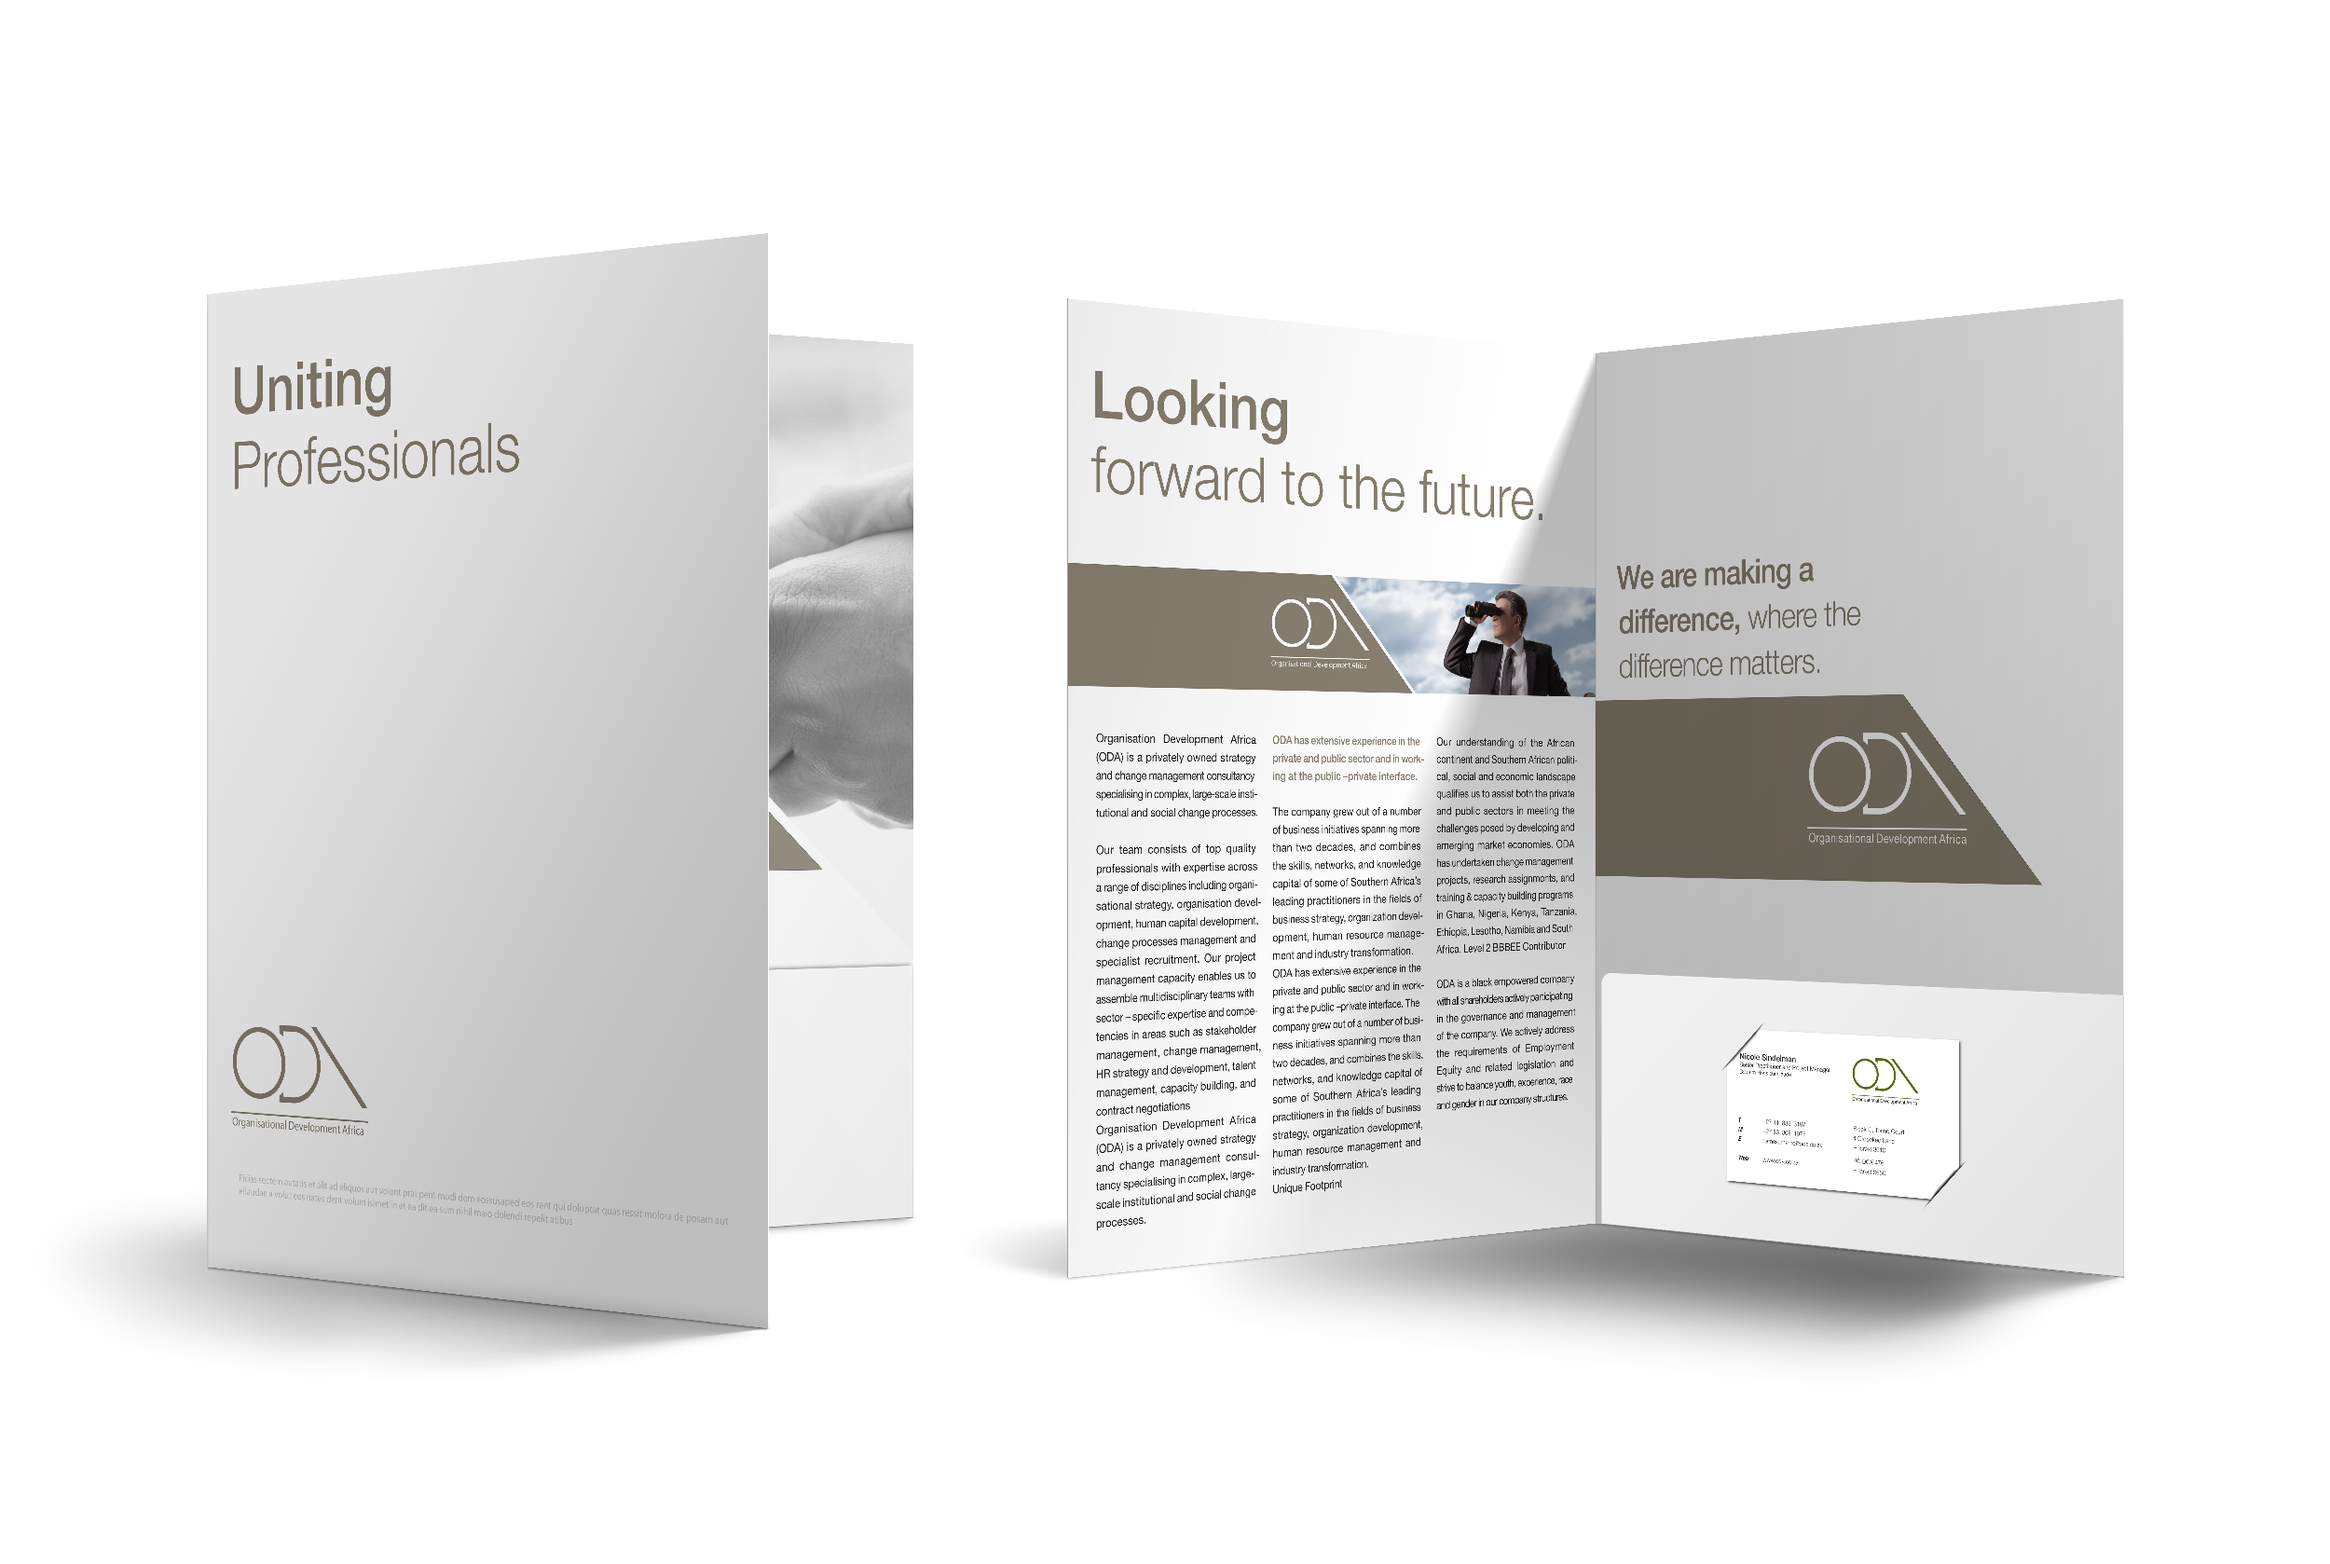
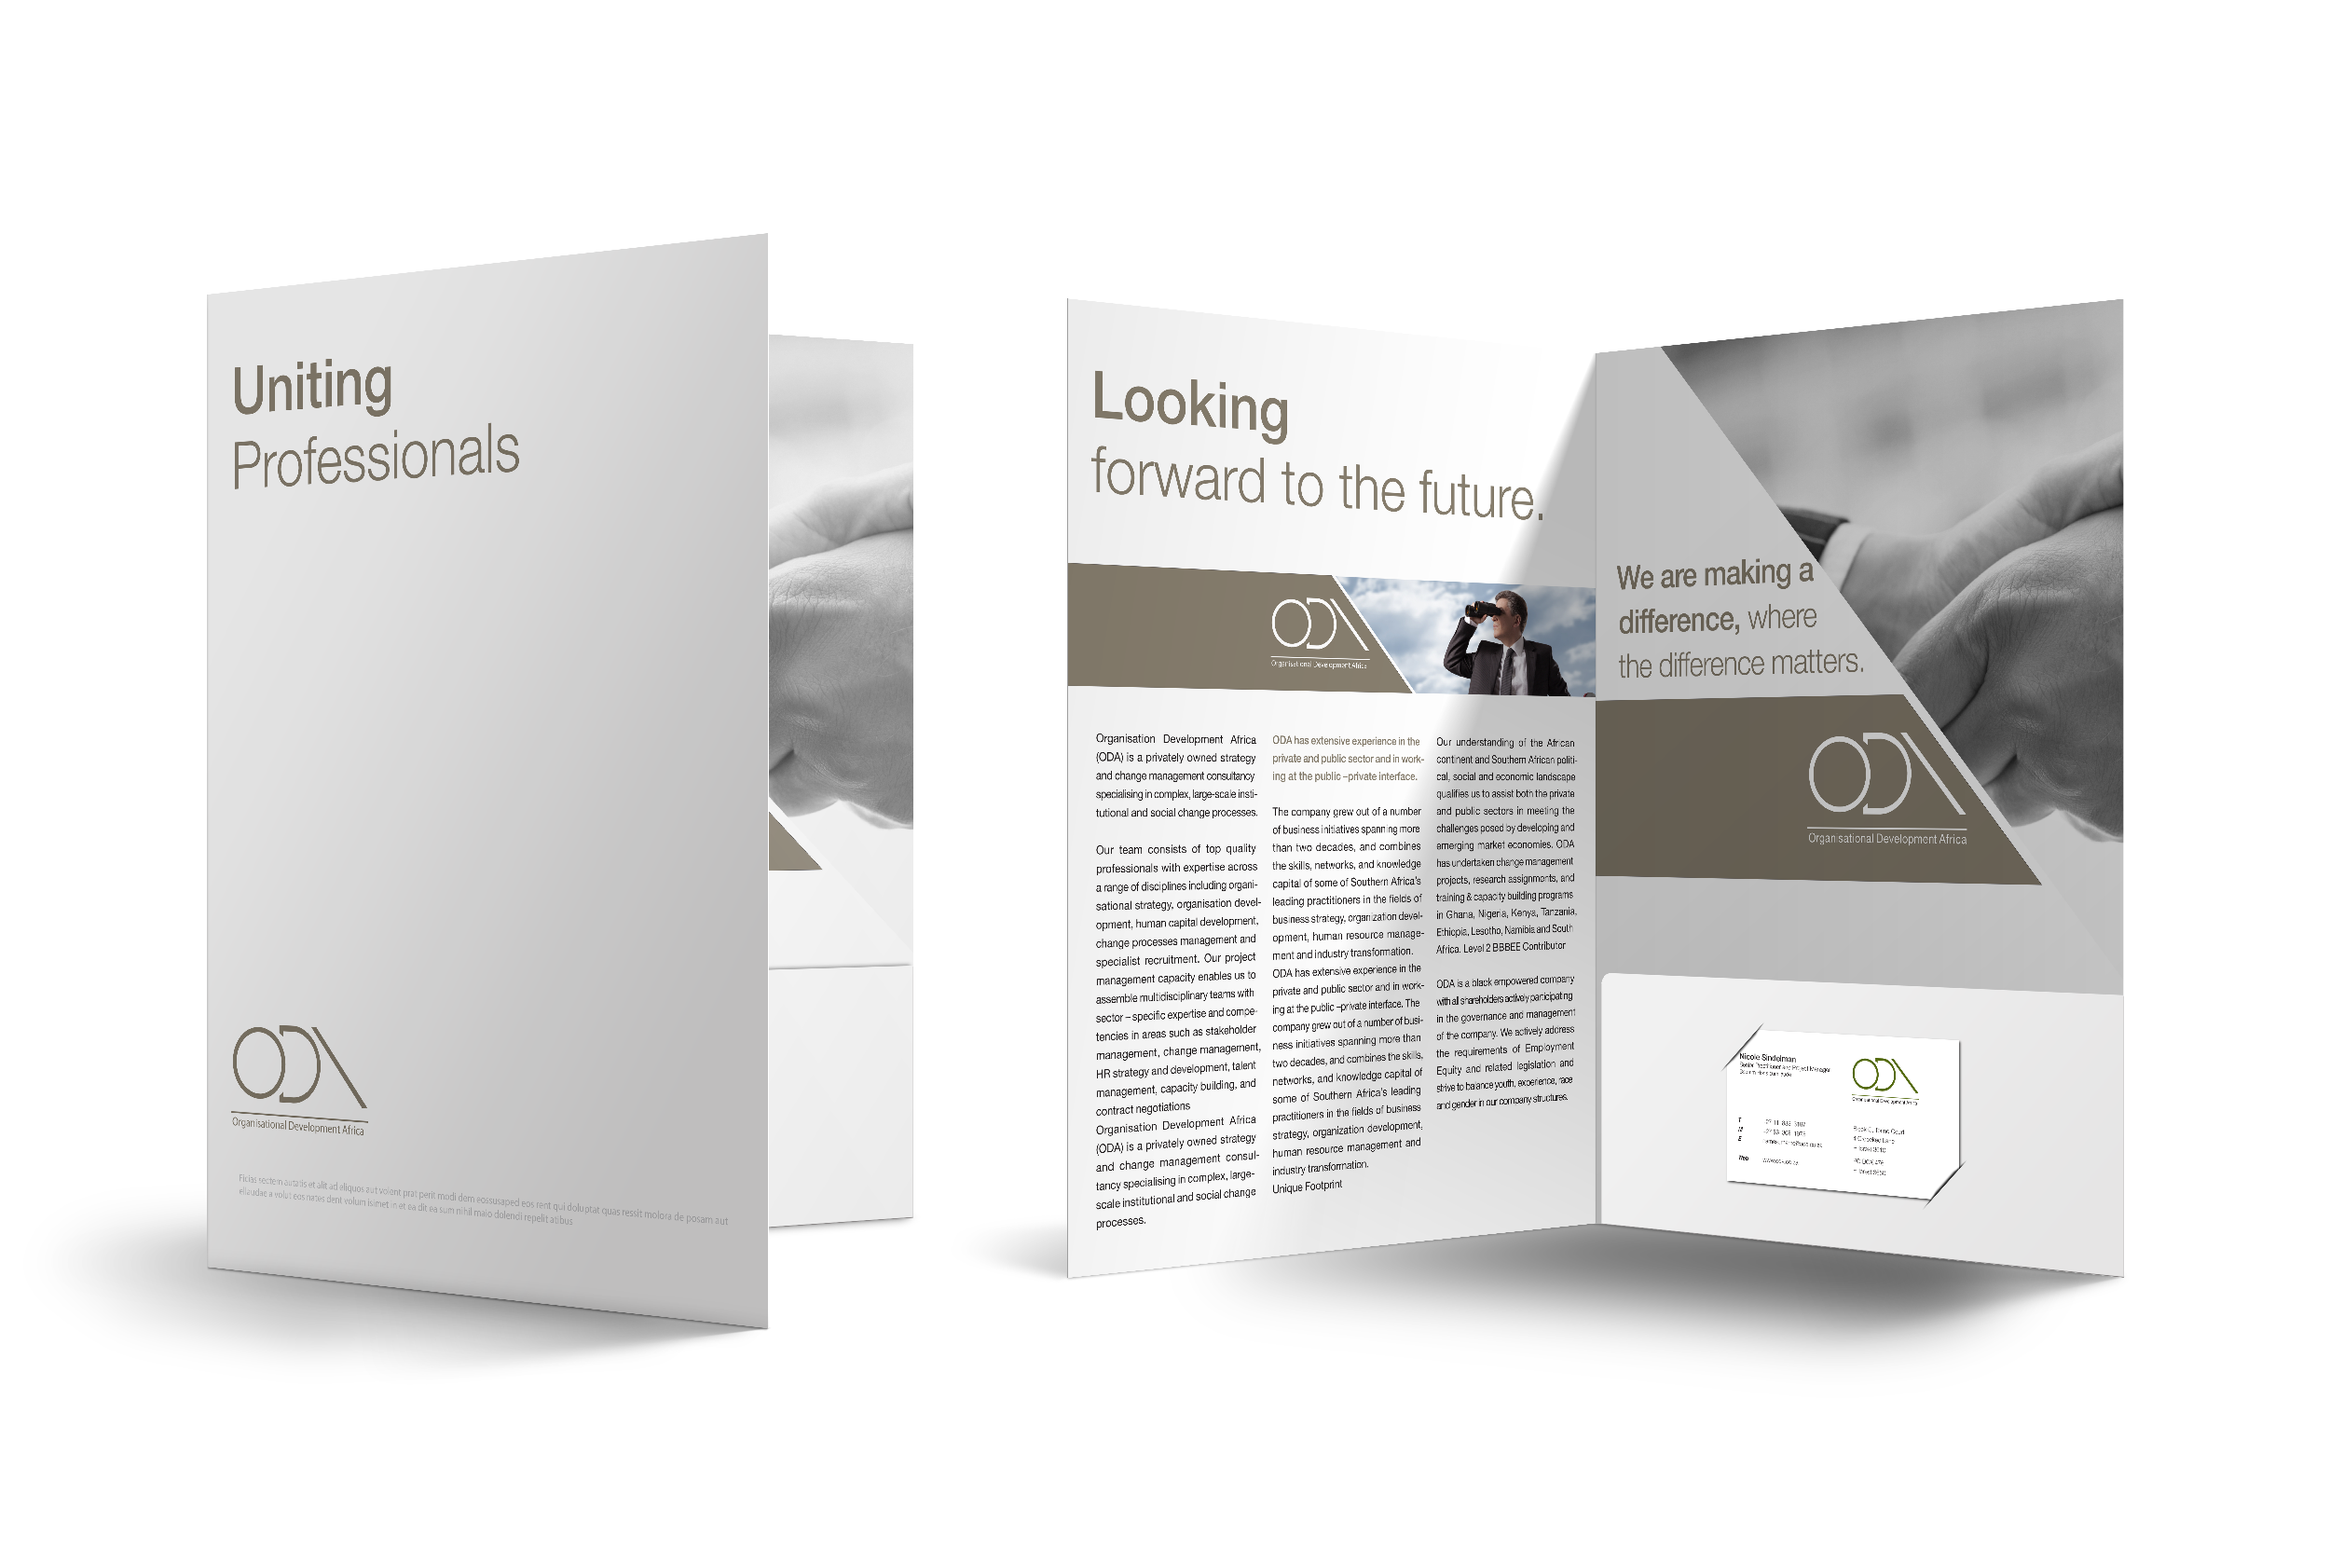
All_REV_Ver36

Changed region(s): [[0.6864, 0.1859, 0.936, 0.5578]]

diff --git a/oda.html b/oda.html
@@ -82,7 +82,7 @@
         <div class="pr2-headTitle">overview</div>
         <div class="pr2_copy-2">
           <p>
-            <br />ODA<br />(Organisational Development Africa) is a privately
+            <br/>ODA<br />(Organisational Development Africa) is a privately
             owned strategy and change management consultancy specialising in
             complex, large-scale institutional and social change processes. ODA
             requested that I firstly conceptulize a logo and then required a
@@ -118,11 +118,9 @@
       <div class="pr2_copy-2 fade_up">
         <h3 class="pr2-headTitle">conclusion</h3>
         <p>
-          Lorem ipsum dolor sit, amet consectetur adipisicing elit.
-          Consectetur vel, quia dicta eligendi dolorem sequi id! Voluptas ex
-          perspiciatis est.Lorem ipsum dolor sit, amet consectetur adipisicing
-          elit. Consectetur vel, quia dicta eligendi dolorem sequi id!
-          Voluptas ex perspiciatis est.
+          ODA was given a sharp modern yet minimalistic look and feel and the identity grid could then be implemented on
+          all types of collateral print and media.
+
         </p>
       </div>
       <div class="header__image">
@@ -146,21 +144,19 @@
           <div class="left right">
             <img src="/images/Oda_images/Oda_07.png" class="pr2_image-9 " />
           </div>
-          <div class="right">
-            <img src="/images/Oda_images/Oda_08.png" class="pr2_image-10 " />
-          </div>
-          <div class="left right">
-            <img src="/images/Oda_images/Oda_09.png" class="pr2_image-11 " />
-          </div>
-          <div class=".pr2-imgBackground">1</div>
-          <div class="right">
-            <img src="/images/Oda_images/ODA Presentation_Folder_opt.png" class="pr2_image-12 " />
-          </div>
-          <div class="left right">
-            <img src="/images/Oda_images/Oda_11.png" class="pr2_image-12 " />
-          </div>
-          <div class="right">
-            <img src="/images/Oda_images/ODA_Telescopic_opt.png" class="pr2_image-13 " />
+          <div class="pr2-imgBackground">
+            <div class="right">
+              <img src="/images/Oda_images/ODA Presentation_Folder_opt1.png" class="pr2_image-12 " />
+            </div>
+            <div class="right left">
+              <img src="/images/Oda_images/ODA Presentation_Folder_opt.png" class="pr2_image-12 " />
+            </div>
+            <div class="left right">
+              <img src="/images/Oda_images/Oda_11.png" class="pr2_image-12 " />
+            </div>
+            <div class="right">
+              <img src="/images/Oda_images/ODA_Telescopic_opt.png" class="pr2_image-13 " />
+            </div>
           </div>
         </div>
       </div>

diff --git a/sass/style.scss b/sass/style.scss
@@ -111,6 +111,9 @@ $Mob-line-height: 2.1em;
 $Mob-padding: 0em 0.8em;
 $Mob-weight: 500;
 
+// USER HEADER //
+$Std-Header: 5em;
+
 // USER SUB-HEADER //
 $Std-Subheader-size: 2em;
 $Std-Subheader-color: hsl(0, 0%, 76%);
@@ -1788,7 +1791,7 @@ body {
     // MQ Start //
     @include mobile {
         .img_wrapper {
-            background-color: #c14448;
+            background-color: $Grow-Color;
 
             img {
                 object-fit: cover;
@@ -1974,7 +1977,7 @@ body {
     justify-self: center;
     width: 100vw;
     height: 100%;
-    background-color: #c14448;
+    background-color: $Grow-Color;
 }
 // All_REV_Ver32
 
@@ -2024,8 +2027,7 @@ body {
         overflow: hidden;
 
         .head_title {
-            width: 100%;
-            font-size: 64px;
+            font-size: $Std-Header;
             color: white;
         }
 
@@ -2072,10 +2074,10 @@ body {
 
     .pr2_grid-card {
         display: grid;
-        grid: (auto-flow / minmax(2px, 1fr)) minmax(350px, 800px) minmax(2px, 1fr);
+        grid: (auto-flow / minmax(2px, 1fr)) minmax(350px, 850px) minmax(2px, 1fr);
 
         img {
-            max-width: 100%;
+            width: 100%;
         }
     }
 
@@ -2113,13 +2115,6 @@ body {
         grid-column: 2;
     }
 
-    .pr2-imgBackground {
-        
-        grid-column: 2;
-        width: 100%;
-        background-color: hsl(209, 53%, 34%);
-    }
-
     .header__image,
     img {
         grid-column: 2;
@@ -2136,6 +2131,13 @@ body {
         margin-right: 5%;
         margin-left: 5%;
     }
+}
+// All_REV_Ver36 -- DATE280919 //
+
+.pr2-imgBackground {
+    width: 100%;
+    height: 100%;
+    background-image: linear-gradient(45deg, $Oda-Color 80%, white 20%);
 }
 //ODA// --END--
 

diff --git a/sass/style.css b/sass/style.css
@@ -1841,8 +1841,7 @@ body .oda__head {
 
 html .oda__head .head_title,
 body .oda__head .head_title {
-  width: 100%;
-  font-size: 64px;
+  font-size: 5em;
   color: white;
 }
 
@@ -1902,12 +1901,12 @@ html .pr2_grid-card,
 body .pr2_grid-card {
   display: -ms-grid;
   display: grid;
-  grid: auto-flow/minmax(2px, 1fr) minmax(350px, 800px) minmax(2px, 1fr);
+  grid: auto-flow/minmax(2px, 1fr) minmax(350px, 850px) minmax(2px, 1fr);
 }
 
 html .pr2_grid-card img,
 body .pr2_grid-card img {
-  max-width: 100%;
+  width: 100%;
 }
 
 html .pr2_image-2,
@@ -1961,14 +1960,6 @@ body .pr2_copy-3 {
   grid-column: 2;
 }
 
-html .pr2-imgBackground,
-body .pr2-imgBackground {
-  -ms-grid-column: 2;
-  grid-column: 2;
-  width: 100%;
-  background-color: #295885;
-}
-
 html .header__image,
 html img,
 body .header__image,
@@ -1991,6 +1982,12 @@ body .btn {
   grid-column: 2;
   margin-right: 5%;
   margin-left: 5%;
+}
+
+.pr2-imgBackground {
+  width: 100%;
+  height: 100%;
+  background-image: linear-gradient(45deg, #295885 80%, white 20%);
 }
 
 *,
